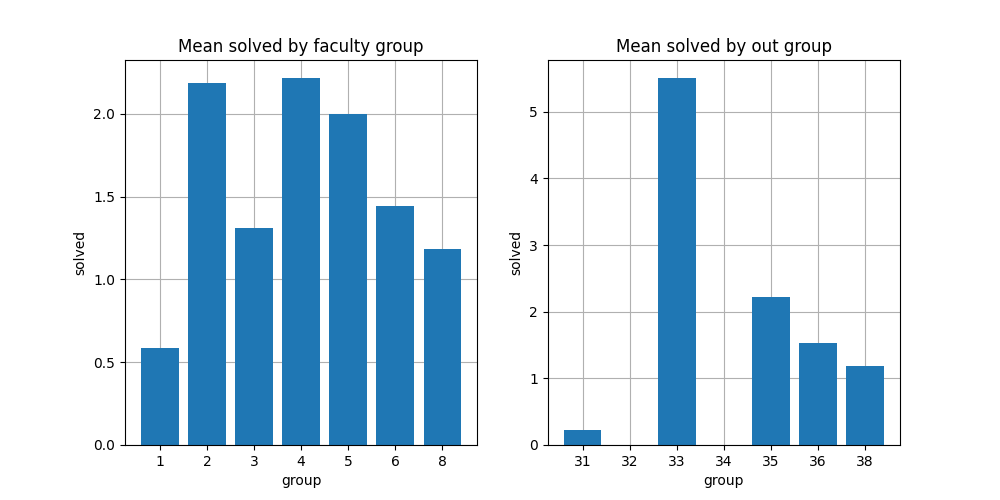
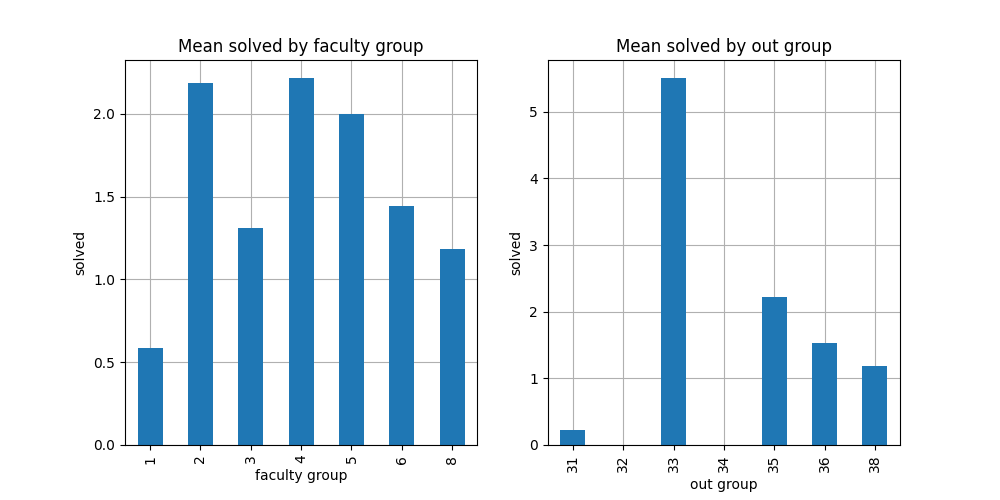
pandas fix

diff --git a/2-pandas/episode-3/main.py b/2-pandas/episode-3/main.py
@@ -6,23 +6,22 @@ import pandas as pd
 
 students = pd.read_excel(os.path.join('students', 'students_info.xlsx'))
 results = pd.read_html(os.path.join('students', 'results_ejudge.html'))[0]
-
 merged = students.merge(results, left_on='login', right_on='User')
-group_fac = merged.groupby('group_faculty')
-fac_names, fac_mean_solved = list(map(str, group_fac.groups.keys())), group_fac['Solved'].mean()
-group_out = merged.groupby('group_out')
-out_names, out_mean_solved = list(map(str, group_out.groups.keys())), group_out['Solved'].mean()
 
 _, axs = plt.subplots(1, 2, figsize=(10, 5))
+
+plt.sca(axs[0])
+merged.groupby('group_faculty')['Solved'].mean().plot.bar()
+plt.sca(axs[1])
+merged.groupby('group_out')['Solved'].mean().plot.bar()
+
 
 axs[0].grid()
 axs[1].grid()
 axs[0].set_axisbelow(True)
 axs[1].set_axisbelow(True)
-axs[0].bar(fac_names, fac_mean_solved)
-axs[1].bar(out_names, out_mean_solved)
-axs[0].set_xlabel('group')
-axs[1].set_xlabel('group')
+axs[0].set_xlabel('faculty group')
+axs[1].set_xlabel('out group')
 axs[0].set_ylabel('solved')
 axs[1].set_ylabel('solved')
 axs[0].set_title('Mean solved by faculty group')
@@ -33,9 +32,10 @@ plt.savefig('mean-solved.png')
 top = merged[(merged['G'] >= 10) | (merged['H'] >= 10)]
 
 _, axs = plt.subplots(1, 2, figsize=(10, 5))
-
-axs[0].pie(**dict(zip(['labels', 'x'], np.unique(np.array(top['group_faculty']), return_counts=True))))
-axs[1].pie(**dict(zip(['labels', 'x'], np.unique(np.array(top['group_out']), return_counts=True))))
+plt.sca(axs[0])
+top['group_faculty'].value_counts().plot.pie(ylabel='')
+plt.sca(axs[1])
+top['group_out'].value_counts().plot.pie(ylabel='')
 
 axs[0].set_title('Faculty groups top students came from')
 axs[1].set_title('Out groups top students went to')

diff --git a/2-pandas/episode-2/main.py b/2-pandas/episode-2/main.py
@@ -1,22 +1,10 @@
 import matplotlib.pyplot as plt
 import pandas as pd
 
-dfg = pd.read_csv('flights.csv').groupby('CARGO')
-
-cargo = dfg.groups.keys()
-flights = dfg['CARGO'].count()
-prices = dfg['PRICE'].sum()
-weights = dfg['WEIGHT'].sum()
-
-fig, axs = plt.subplots(1, 3, figsize=(15, 5))
-
-axs[0].pie(flights, labels=cargo)
-axs[1].pie(prices, labels=cargo)
-axs[2].pie(weights, labels=cargo)
-
-axs[0].set_title('Total flights')
-axs[1].set_title('Total prices')
-axs[2].set_title('Total weights')
+dfg = pd.read_csv('flights.csv')
+dfg['COUNT'] = 1
+dfg = dfg.drop(['Unnamed: 0'], axis=1)
+dfg.groupby('CARGO').sum().plot.pie(subplots=True, figsize=(20, 10))
 
 plt.savefig('cargo.png')
 plt.show()
